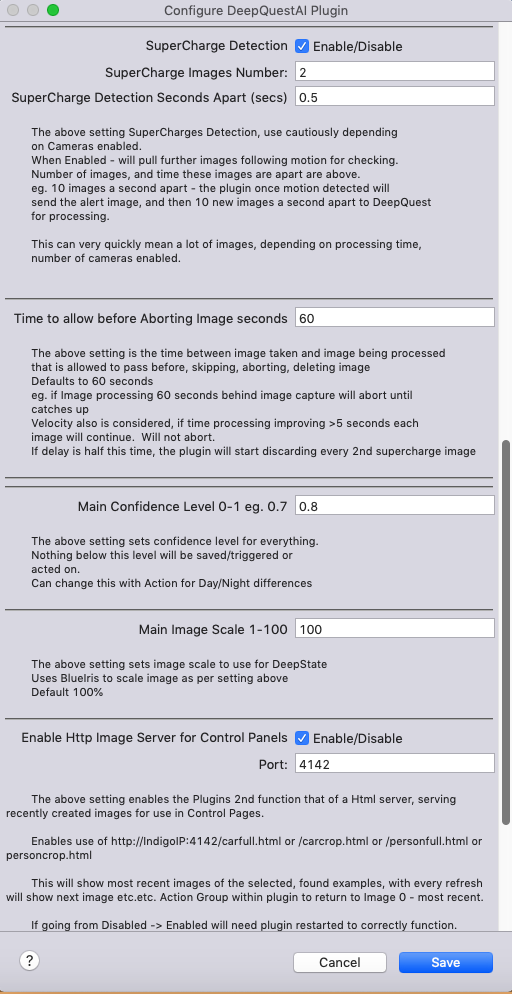
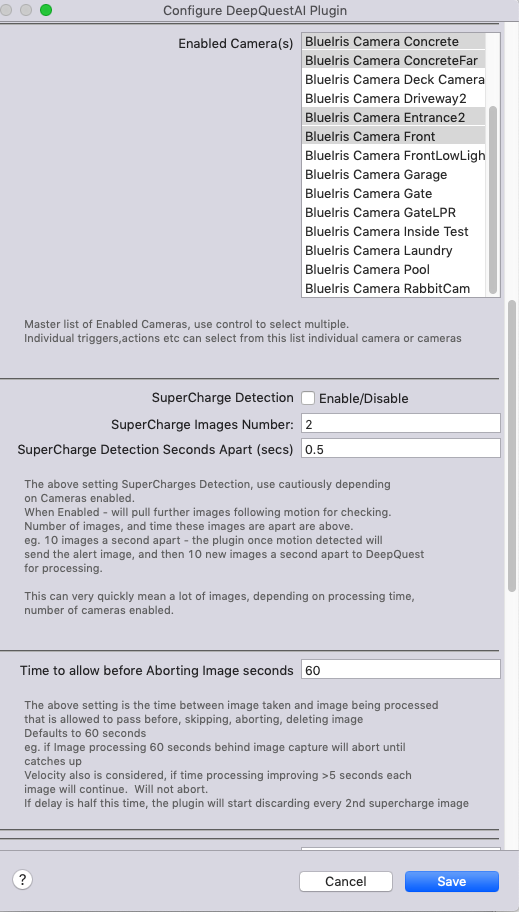
0.6.7 Add to readme/images

diff --git a/README.md b/README.md
@@ -24,7 +24,7 @@ Positive - have images to use and keep / Cars/ People saved forever
 Negative - need CPU cycles to run the detection
 
 
-###### **Potential Uses**
+#### **Potential Uses**
 
 First:  (**with BlueIris setup and/or BI Indigo Plugin**)
 
@@ -45,7 +45,7 @@ eg. flow
 ![https://github.com/Ghawken/DeepQuestAI/blob/master/Images/DeepStateBISetup.png?raw=True](https://github.com/Ghawken/DeepQuestAI/blob/master/Images/DeepStateBISetup.png)
 
 
-###### or
+#### or
 
 No BlueIris, or BlueIris but only for occasional Action Group based use.
 eg.
@@ -77,33 +77,30 @@ Flow:
 
 
 
-###### Plus additional:
+#### Plus additional:
 
-**HTTP Server:**
-Creates a very basic image server - showing for control page use the last detected objects
-e.g indigoip:4142/car.html
+#### **HTTP Server:**
+
+Creates a very basic image Web server -  for control page use, showing the last detected objects
+
+e.g http://indigoip:4142/car.html
+
 Set as refreshingURL in control page will show the last image of car found.
-On refreshing the URL goes backwards in time through all saved images (Non-archived)
+On refreshing the URL, the web server goes backwards in time through all saved images (Non-archived)
+Cycling back to beginning again.
+
 NB:  To save images need to create Indigo Devices for that particularly Object Type!
 
-Third:  (Additional) or can be stand alone
 
-
-
-
-
-
-
-
-Setup
+### Setup
 
 1. Install DeepStack, run and activate with your API code on html website.  
 (API code now not needed free for all)
 Start DeepStack Server - recognition only API needed, pick port to run on 
 Plugin Defaults to 7188
 
-##### Plugin Needs Pillow installed/PIL for image control
-##### pip install pillow
+#### Plugin Needs Pillow installed/PIL for image control
+#### pip install pillow
 
 2. Install Plugin and setup with PluginConfig
 
@@ -115,7 +112,9 @@ Follow the detailed instructions in the Plugin Config page
 3.  Make sure running BlueIris Plugin version >1.1.12 and above
 Enable within BlueIris plugin, the Broadcast setting
 
+
 # DeepStateAI Plugin
+
 
 ## Plugin Config Settings:
 
@@ -140,6 +139,8 @@ DeepQuestAI will pull 5 images, 2 seconds apart one after another and send to De
 Obviously the number of cameras enabled, and speed of DeepStack will be very important here
 
 ![https://github.com/Ghawken/DeepQuestAI/blob/master/Images/DeepStatePluginConfig2.png?raw=True](https://github.com/Ghawken/DeepQuestAI/blob/master/Images/DeepStatePluginConfig2.png)
+
+![https://github.com/Ghawken/DeepQuestAI/blob/master/Images/DeepStatePluginConfig3.png?raw=True](https://github.com/Ghawken/DeepQuestAI/blob/master/Images/DeepStatePluginConfig3.png)
 
 
 Warning:
@@ -222,11 +223,15 @@ person found, do this etc.
 ![https://github.com/Ghawken/DeepQuestAI/blob/master/Images/DeepStateTriggersObject.png?raw=True](https://github.com/Ghawken/DeepQuestAI/blob/master/Images/DeepStateTriggersObject.png)
 
 
+This trigger will fire ignoring the missing Cameras with the SendURL Action Group
 
 ## Actions
 
 ![https://github.com/Ghawken/DeepQuestAI/blob/master/Images/DeepStateActions.png?raw=True](https://github.com/Ghawken/DeepQuestAI/blob/master/Images/DeepStateActions.png)
 
+![https://github.com/Ghawken/DeepQuestAI/blob/master/Images/AGCheckURLAG.png?raw=True](https://github.com/Ghawken/DeepQuestAI/blob/master/Images/AGCheckURLAG.png)
+
+![https://github.com/Ghawken/DeepQuestAI/blob/master/Images/AGCheckBICamerasAG.png?raw=True](https://github.com/Ghawken/DeepQuestAI/blob/master/Images/AGCheckBICamerasAG.png)
 
 
 ChangeLog:
